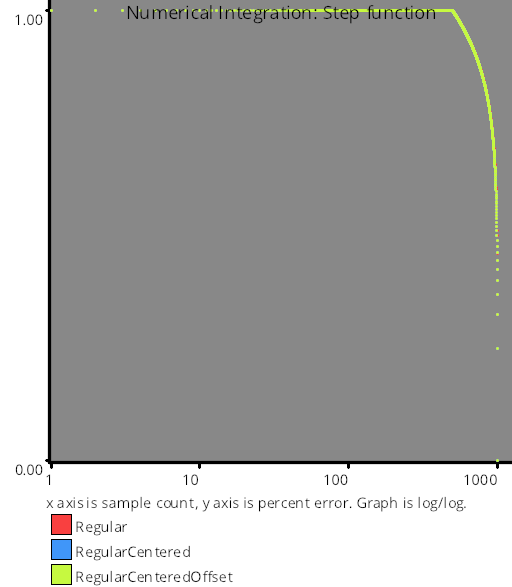
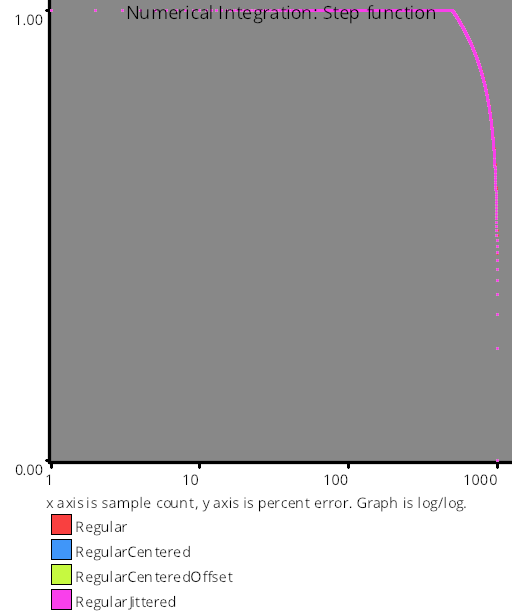
added regular jittered sampling type

diff --git a/src/samples/_1d/regular/regular.cpp b/src/samples/_1d/regular/regular.cpp
@@ -5,6 +5,7 @@ DATE: 2/8/2019
 */
 
 #include "codegen.h"
+#include <random>
 
 void Samples::_1d::Regular::Regular(std::vector<float>& values, size_t numValues)
 {
@@ -26,4 +27,17 @@ void Samples::_1d::Regular::RegularCenteredOffset(std::vector<float>& values, si
     values.resize(numValues);
     for (size_t i = 0; i < numValues; ++i)
         values[i] = offset + float(i) / float(numValues);
+}
+
+void Samples::_1d::Regular::RegularJittered(std::vector<float>& values, size_t numValues)
+{
+    // make sure we use "the good stuff". yes, it matters if the not good stuff gets in, it's a big difference.
+    // https://blog.demofox.org/2017/03/15/neural-network-recipe-recognize-handwritten-digits-with-95-accuracy/
+    static std::random_device rd("dev/random");
+    static std::mt19937 rng(rd());
+    std::uniform_real_distribution<float> dist(0.0f, 1.0f / float(numValues));
+
+    values.resize(numValues);
+    for (size_t i = 0; i < numValues; ++i)
+        values[i] = (float(i) / float(numValues)) + dist(rng);
 }

diff --git a/output/samples/_1d/regular/page.md b/output/samples/_1d/regular/page.md
@@ -69,6 +69,7 @@ This sampling strategy is seemingly the best of the three because it works well 
 * Regular (Not Progressive, Not Randomized)
 * RegularCentered (Not Progressive, Not Randomized)
 * RegularCenteredOffset (Not Progressive, Not Randomized)
+* RegularJittered (Not Progressive, Randomized)
 ## Regular
 ### Numberline
 ![Regular](../../../samples/_1d/regular/MakeNumberline_Regular.png)  
@@ -78,6 +79,9 @@ This sampling strategy is seemingly the best of the three because it works well 
 ## RegularCenteredOffset
 ### Numberline
 ![RegularCenteredOffset](../../../samples/_1d/regular/MakeNumberline_RegularCenteredOffset.png)  
+## RegularJittered
+### Numberline
+![RegularJittered](../../../samples/_1d/regular/MakeNumberline_RegularJittered.png)  
 ## Discrepancy Test
 ### CalculateDiscrepancy
 ![regular](../../../samples/_1d/regular/CalculateDiscrepancy.png)  

diff --git a/output/samples/_1d/regular/results.md b/output/samples/_1d/regular/results.md
@@ -3,6 +3,7 @@
 * Regular (Not Progressive, Not Randomized)
 * RegularCentered (Not Progressive, Not Randomized)
 * RegularCenteredOffset (Not Progressive, Not Randomized)
+* RegularJittered (Not Progressive, Randomized)
 ## Regular
 ### Numberline
 ![Regular](../../../samples/_1d/regular/MakeNumberline_Regular.png)  
@@ -12,6 +13,9 @@
 ## RegularCenteredOffset
 ### Numberline
 ![RegularCenteredOffset](../../../samples/_1d/regular/MakeNumberline_RegularCenteredOffset.png)  
+## RegularJittered
+### Numberline
+![RegularJittered](../../../samples/_1d/regular/MakeNumberline_RegularJittered.png)  
 ## Discrepancy Test
 ### CalculateDiscrepancy
 ![regular](../../../samples/_1d/regular/CalculateDiscrepancy.png)  

diff --git a/output/tests/_1d/numberline/page.md b/output/tests/_1d/numberline/page.md
@@ -28,6 +28,8 @@ The first sample is red and the last sample is green. This lets you see the orde
 ![RegularCentered](../../../samples/_1d/regular/MakeNumberline_RegularCentered.png)  
 #### RegularCenteredOffset
 ![RegularCenteredOffset](../../../samples/_1d/regular/MakeNumberline_RegularCenteredOffset.png)  
+#### RegularJittered
+![RegularJittered](../../../samples/_1d/regular/MakeNumberline_RegularJittered.png)  
 ### Uniform Random Number Sampling
 #### UniformRandom
 ![UniformRandom](../../../samples/_1d/uniform_random/MakeNumberline_UniformRandom.png)  

diff --git a/output/tests/_1d/numberline/results.md b/output/tests/_1d/numberline/results.md
@@ -24,6 +24,8 @@
 ![RegularCentered](../../../samples/_1d/regular/MakeNumberline_RegularCentered.png)  
 #### RegularCenteredOffset
 ![RegularCenteredOffset](../../../samples/_1d/regular/MakeNumberline_RegularCenteredOffset.png)  
+#### RegularJittered
+![RegularJittered](../../../samples/_1d/regular/MakeNumberline_RegularJittered.png)  
 ### Uniform Random Number Sampling
 #### UniformRandom
 ![UniformRandom](../../../samples/_1d/uniform_random/MakeNumberline_UniformRandom.png)  
